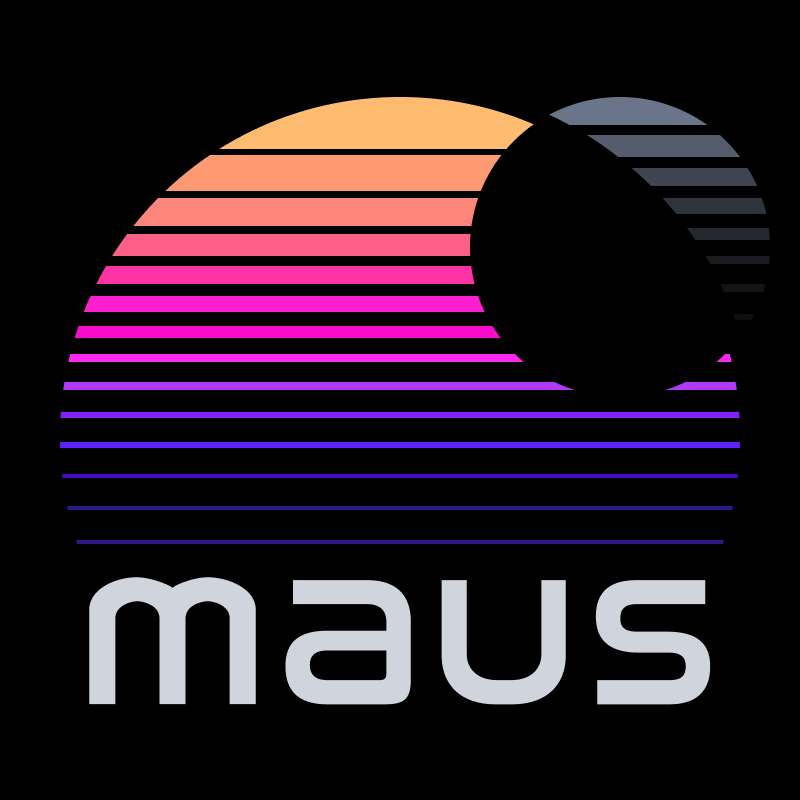
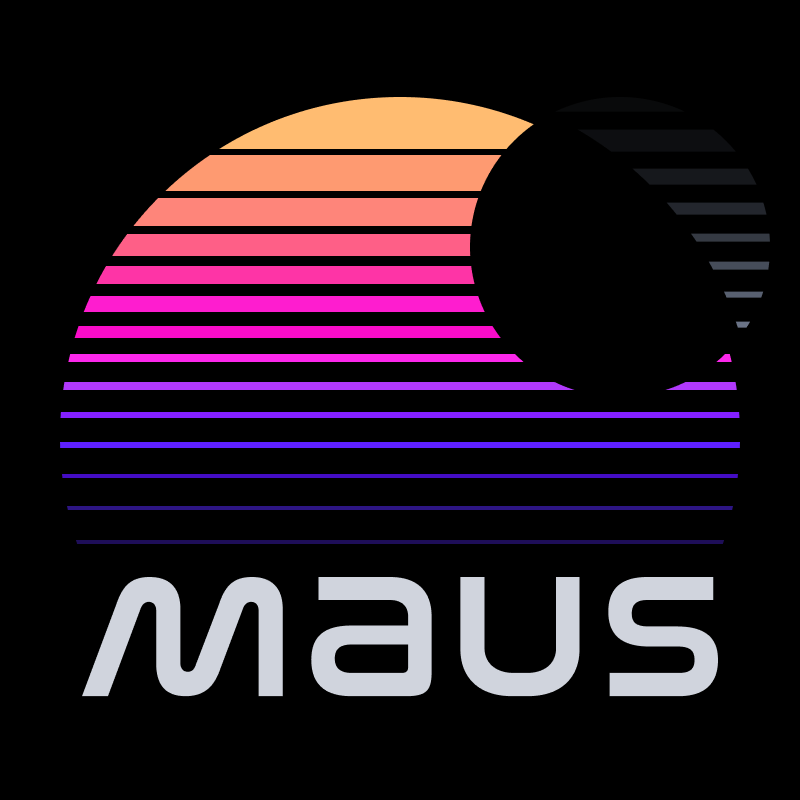
feat: add italic to function, keyword, storage
- Improved TypeScript / JavaScript highlighting
- Corrected UI styles
- Updated icon asset
- Updated screen asset
- Included 'Optional Settings' in README

Changed region(s): [[0.0938, 0.7188, 0.9062, 0.9062], [0.6875, 0.0938, 0.9688, 0.375], [0.0938, 0.6562, 0.9062, 0.6875]]

diff --git a/README.md b/README.md
@@ -1,4 +1,8 @@
 # Maus Theme
+![GitHub package.json version](https://img.shields.io/github/package-json/v/moonmaus/maus-theme)
+![GitHub](https://img.shields.io/github/license/moonmaus/maus-theme)
+<!-- ![GitHub release (latest by date)](https://img.shields.io/github/v/release/moonmaus/maus-theme?logo=github) -->
+<!-- ![Visual Studio Marketplace Version](https://img.shields.io/visual-studio-marketplace/v/moonmaus/maus-theme?label=VS%20Marketplace&logo=visual-studio-code) -->
 
 <p align="left">
     <img src="https://raw.githubusercontent.com/moonmaus/maus-theme/main/assets/maus-dark-icon.png" width="160" alt="Maus Theme icon">
@@ -8,7 +12,6 @@
 <p align="left">
     <img src="https://raw.githubusercontent.com/moonmaus/maus-theme/main/assets/maus-dark-screen.png" width="800" alt="Maus Theme screenshot">
 </p>
-
 
 ## Syntax Highlighting
 
@@ -48,8 +51,42 @@ Edit `settings.json`:
 3. Add the following:
 
 ```json
-"workbench.colorTheme": "Maus Dark",
-"workbench.preferredDarkColorTheme": "Maus Dark",
+    "workbench.colorTheme": "Maus Dark",
+    "workbench.preferredDarkColorTheme": "Maus Dark",
+```
+
+## Optional Settings
+
+Here are some of my preferred settings:
+
+```json
+    "editor.fontFamily": "Berkeley Mono",
+    "editor.fontSize": 13,
+    "debug.console.fontSize": 13,
+    "terminal.integrated.fontSize": 13,
+    "editor.wordWrap": "on",     
+    "editor.wordWrapColumn": 96,
+    "editor.hover.delay": 1000,
+    "editor.hover.hidingDelay": 100,
+    "editor.cursorStyle": "block",
+```
+
+Additionally, here are my colors for the **[Indent Rainbow](https://github.com/oderwat/vscode-indent-rainbow)** extension:
+
+```json
+    "editor.guides.indentation": true,
+    "indentRainbow.colors": [
+        "rgba(53, 52, 53,0.15)",
+        "rgba(42, 51, 136,0.15)",
+        "rgba(94, 45, 144, 0.15)",
+        "rgba(123, 28, 125,0.15)",
+        "rgba(218, 18, 75,0.15)",
+        "rgba(239, 83, 61,0.15)",
+        "rgba(246, 140, 31,0.15)",
+        "rgba(246, 140, 31,0.1)",
+        "rgba(246, 140, 31,0.05)",
+        "rgba(246, 140, 31,0.025)"
+    ],
 ```
 
 ## Contributing

diff --git a/CHANGELOG.md b/CHANGELOG.md
@@ -26,3 +26,13 @@ Add Maus Theme extension files:
 
 - Improved install instructions
 - Updated icon asset
+
+## [0.0.3] - 2025-03-16
+
+### feat: add italic to function, keyword, storage
+
+- Improved TypeScript / JavaScript highlighting
+- Corrected UI styles
+- Updated icon asset
+- Updated screen asset
+- Included 'Optional Settings' in README
